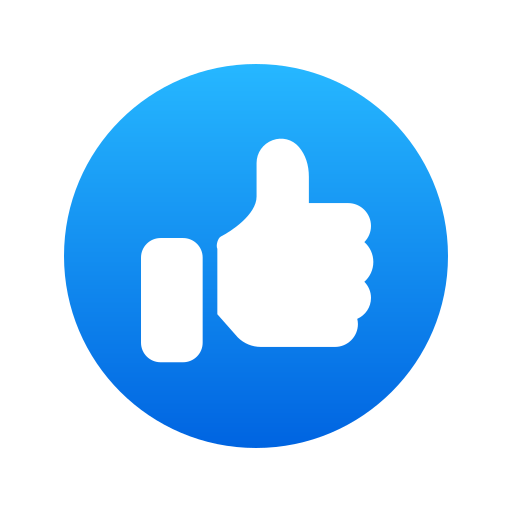
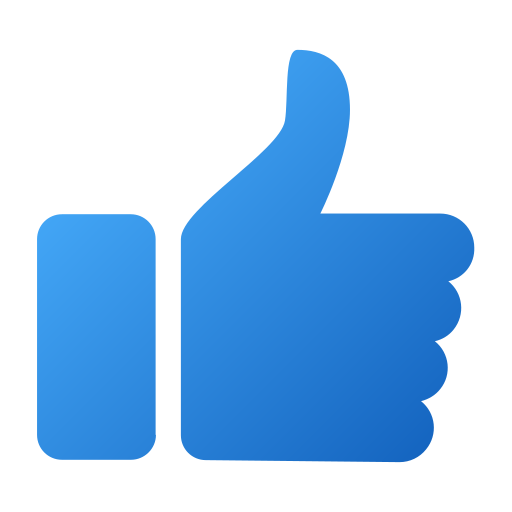
updated follow button and added click events

diff --git a/linked/components/second.tsx b/linked/components/second.tsx
@@ -103,25 +103,29 @@ function PostCard({
             alt={name}
           />
 
+          {/* flex-1 + min-w-0 so this column stretches to fill remaining width */}
           <div className="flex flex-col gap-0.5 min-w-0 flex-1">
-            <div className="flex items-center justify-between gap-2">
-              <div className="min-w-0">
-                <span className="text-sm sm:text-base font-semibold truncate block">
-                  {name}
-                </span>
-                <span className="text-xs sm:text-sm text-gray-300 line-clamp-2 block">
-                  {bio}
-                </span>
-                <div className="flex items-center gap-1 mt-0.5">
-                  <span className="text-xs text-gray-400">{time}</span>
-                  <img
-                    src="world.svg"
-                    className="h-3 w-3 invert opacity-70"
-                    alt="Public"
-                  />
-                </div>
-              </div>
+
+            {/* w-full + justify-between pushes name left, follow right */}
+            <div className="flex items-center justify-between w-full gap-2">
+              <span className="text-sm sm:text-base font-semibold truncate">
+                {name}
+              </span>
+              <FollowButton />
             </div>
+
+            <span className="text-xs sm:text-sm text-gray-300 line-clamp-2 block">
+              {bio}
+            </span>
+            <div className="flex items-center gap-1 mt-0.5">
+              <span className="text-xs text-gray-400">{time}</span>
+              <img
+                src="world.svg"
+                className="h-3 w-3 invert opacity-70"
+                alt="Public"
+              />
+            </div>
+
           </div>
         </div>
 
@@ -155,18 +159,30 @@ function PostCard({
   );
 }
 
+function FollowButton() {
+  const [following, setFollowing] = useState(false);
+
+  return (
+    <button
+      onClick={() => setFollowing((prev) => !prev)}
+      className={`text-xs sm:text-sm font-bold transition-colors shrink-0 ${
+        following ? "text-gray-400" : "text-blue-400"
+      }`}
+    >
+      {following ? "✓ Following" : "+ Follow"}
+    </button>
+  );
+}
+
 function LikeButton({ likes }: { likes: string }) {
-  // flag === 0 → not liked, flag === 1 → liked  (mirrors your JS logic)
   const [liked, setLiked] = useState(false);
   const [count, setCount] = useState(Number(likes));
 
   const handleClick = () => {
     if (!liked) {
-      // flag was 0 → set to 1 (like)
       setLiked(true);
       setCount((prev) => prev + 1);
     } else {
-      // flag was 1 → set to 0 (unlike)
       setLiked(false);
       setCount((prev) => prev - 1);
     }
@@ -177,9 +193,8 @@ function LikeButton({ likes }: { likes: string }) {
       onClick={handleClick}
       className="flex items-center justify-center gap-1 cursor-pointer hover:bg-white/5 px-2 py-2 rounded-lg transition-colors"
     >
-
       <img
-        src={liked ? "afterlike.png" : "like.svg"}
+        src={liked ? "afterlike.png" : "like.png"}
         className={`h-4 w-4 sm:h-5 sm:w-5 ${!liked ? "invert" : ""}`}
         alt="Like"
       />
